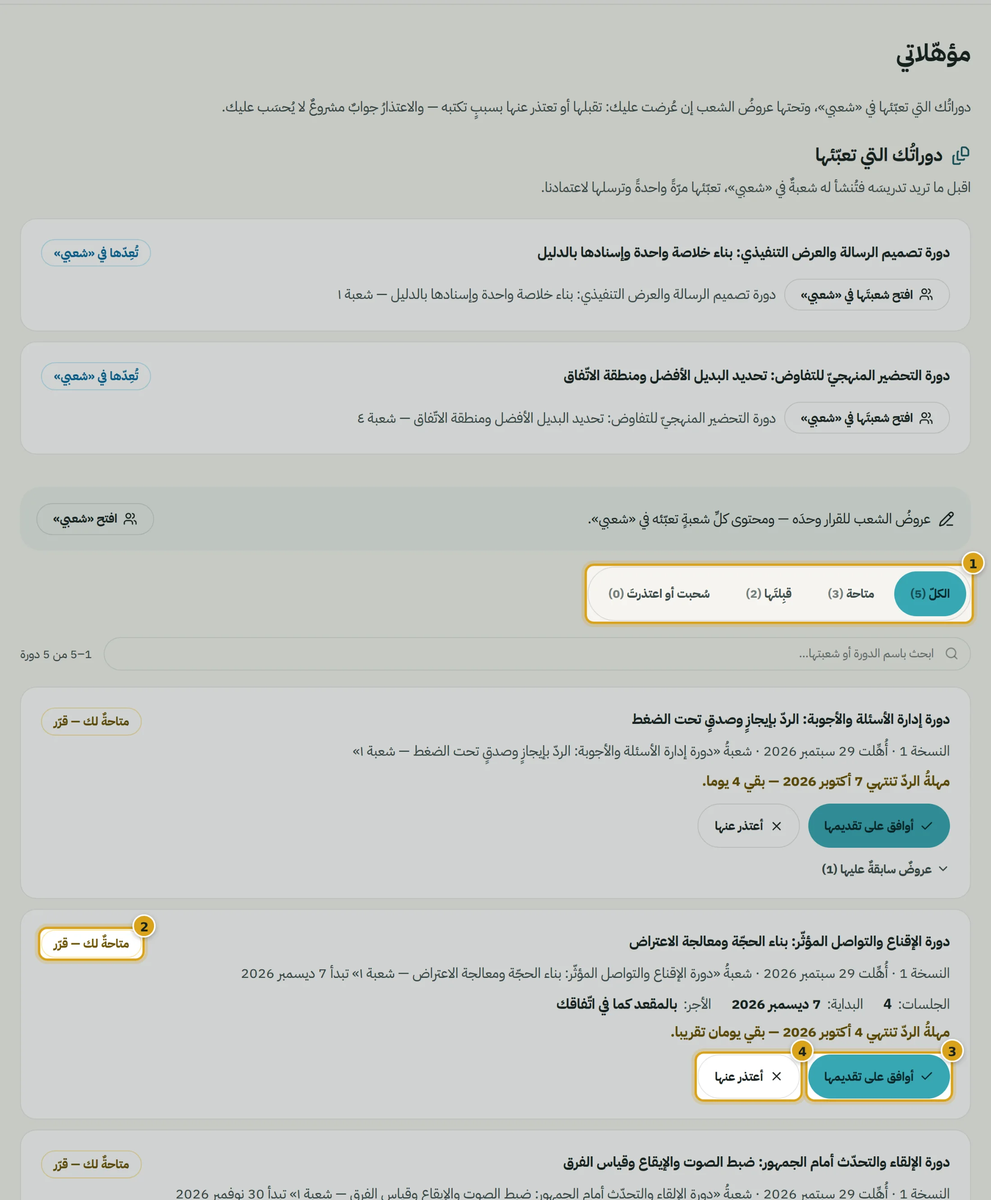
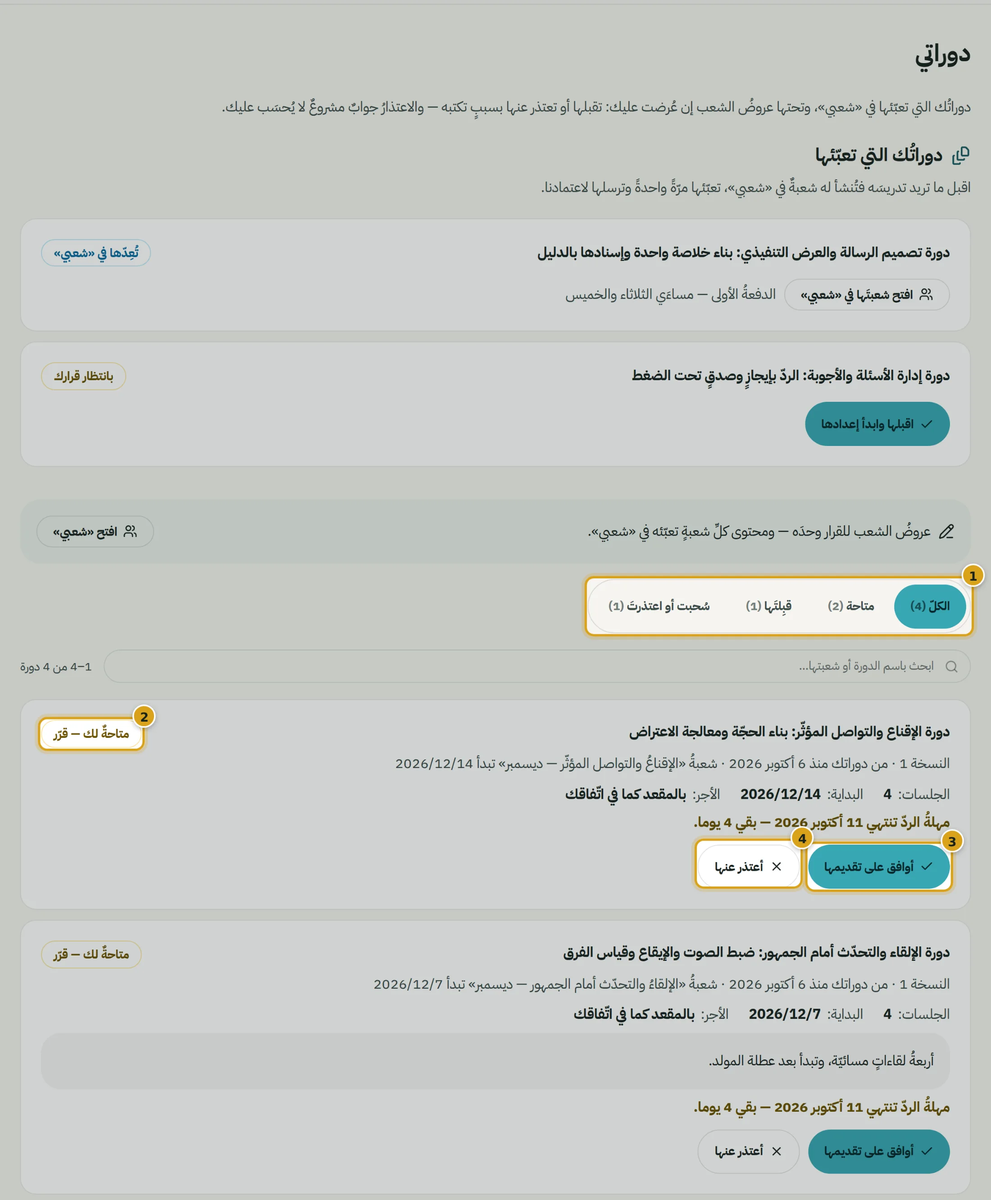
بوّابةُ المدرّب: «مؤهّلاتي» صارت «دوراتي» — في اللسان والدليل والرسائل وصورِ الدليل
اختيارُ صاحب المنصّة «B» (٦ أكتوبر ٢٠٢٦) من ثلاثة: «نؤهّلك» قد تُقرأ «ندرّبك»،
وخرجت من كلّ ما يقرؤه المدرّب في #454 — وبقي اسمُ اللسان وحدَه يحمل جذرَها.
فصار «دوراتي»، يوافق ما صارت تقوله الشاشاتُ («من دوراتك»، «أُضيفت إلى دوراتك»).

· اللسانُ في الشريط (وأيقونتُه كتابٌ مُعلَّم لا وسام)، وعنوانُ الصفحة، ووصفُها
  للقارئ الصوتيّ، وخطأُ تحميلها.
· الدليل: قسمُ «دوراتي» وكلُّ إشارةٍ إليه (ستّ عشرةَ)، والأسئلة.
· الرسائل: بريدُ اعتماد التوقيع وزرُّه «افتح «دوراتي» وابدأ»، وأربعةُ أزرارِ
  إشعارٍ «افتح دوراتك» بعد «افتح مؤهّلاتك»، وخطأُ الخادم حين ينتظر عرضٌ جوابَه،
  وجملةُ شاشة العقود التي تقول للفريق أين يرى المدرّبُ دوراتِه.
· وصورُ الدليل السبعُ التي تُظهر اللسانَ أو صفحتَه — مولَّدةٌ من البوّابة نفسِها
  (`npm run guide:shots --only …`) بخطوط المنصّة، فتقول «دوراتي» و«من دوراتك
  منذ …» كما يراها المدرّب.

والمسارُ `/trainer/qualifications` ومرساةُ الدليل `#qualifications` باقيان:
روابطُ الرسائل التي خرجت تفتحهما. وشاشاتُ الإدارة على لغة الفريق كما هي.

الحارسُ أضيق: `qualify-word.test.ts` كان يستثني اسمَ اللسان بعينه حتّى يُقرَّر،
فذهب الاستثناء — و«مؤهّلات» تُطابَق كأخواتها. وزاد عليه أزرارَ البريد التي تفتح
البوّابة (`destinations.ts`، ما وجهتُه `/trainer` وحدَه). وأربعةُ نقوضٍ سقط بكلٍّ
منها: اسمُ اللسان في الشريط، وزرُّ الإشعار، وزرُّ البريد، وحقلُ اللسان في الدليل.

Claude-Session: https://claude.ai/code/session_01DKhkPcidk5FQyQMpRQMX5o

diff --git a/src/data/trainer-guide/content.ts b/src/data/trainer-guide/content.ts
@@ -51,7 +51,7 @@ export const CHECKLIST: ChecklistItem[] = [
   { id: 'login', text: 'ادخلْ بوّابتك واقرأ الشريطَ الذي فوق كلّ صفحة: كم بقي من مهلتك', time: 'دقيقتان', anchor: 'first-login' },
   { id: 'contract', text: 'افتح «عقدي» واحفظ نسختَك الموقَّعة PDF', time: '3 دقائق', anchor: 'contract' },
   { id: 'orientation', text: 'احجز جلسةَ التهيئة إن أردتَ من يساعدك في إعداد محاورك', time: '5 دقائق', anchor: 'materials', optional: true },
-  { id: 'accept', text: 'في «مؤهّلاتي»: اقبل كلَّ دورةٍ اخترناها لك أو اعتذر عنها', time: 'دقيقةٌ لكلّ دورة', anchor: 'materials' },
+  { id: 'accept', text: 'في «دوراتي»: اقبل كلَّ دورةٍ اخترناها لك أو اعتذر عنها', time: 'دقيقةٌ لكلّ دورة', anchor: 'materials' },
   { id: 'materials', text: 'عبّئ شعبةَ إعداد كلِّ دورةٍ قبلتَها في «شعبي» بخطواتها الستّ، ثمّ أرسلها لاعتمادنا', time: 'ساعاتٌ لكلّ دورة', anchor: 'materials' },
   { id: 'proposals', text: 'اقترح في «دوراتي المقترحة» ما تدرّسه ولا تجده عندنا', time: '10 دقائق لكلّ دورة', anchor: 'proposals', optional: true },
   { id: 'profile', text: 'من «إعدادات الحساب»: ارفع صورتَك واكتب عنوانَك المهنيَّ ونبذتَك — يظهرن في «المدربون» بعد اعتمادنا', time: '10 دقائق', anchor: 'account' },
@@ -85,7 +85,7 @@ export const GUIDE_SECTIONS: GuideSection[] = [
           ['«طلبتي»', 'متعلّمو شعبك وحضورُهم وتقدّمُهم', 'بعد الإسناد'],
           ['«طابور التقييم»', 'ما سلّمه المتعلّمون وينتظر درجتَك', 'بعد الإسناد'],
           ['«جدولي»', 'لقاءاتُك في الثلاثين يوما القادمة', 'بعد الإسناد'],
-          ['«مؤهّلاتي»', 'دوراتُك وعروضُها وقرارُك فيها', 'نعم — تقبل فيه دوراتِك أو تعتذر عنها'],
+          ['«دوراتي»', 'دوراتُك وعروضُها وقرارُك فيها', 'نعم — تقبل فيه دوراتِك أو تعتذر عنها'],
           ['«دوراتي المقترحة»', 'دوراتٌ تدرّسها وليست في كتالوجنا', 'نعم'],
           ['«مساراتي»', 'مسارٌ ترتّبه من دوراتك باسمك', 'مسوّدةً فقط'],
           ['«التسويق»', 'فيديو تعريفيٌّ وصورٌ وملصقاتٌ توافق عليها', 'نعم'],
@@ -114,14 +114,14 @@ export const GUIDE_SECTIONS: GuideSection[] = [
         kind: 'steps',
         title: 'ما تفعله في الأيّام الخمسة',
         items: [
-          { text: 'افتح «مؤهّلاتي». تحت «دوراتُك قيد الإعداد» كلُّ دورةٍ اخترناها لك، ولكلٍّ زرّان: «اقبلها وابدأ إعدادها» أو «اعتذرْ عنها».', detail: 'الاعتذارُ يطلب سببا قصيرا يقرؤه من اختار لك الدورة، ولا يُحسَب عليك.' },
-          { text: 'حين تقبل دورةً تُنشأ لها شعبةُ إعدادٍ في «شعبي» باسم الدورة — مثلا «اسمُ الدورة — شعبة ١» — وأنت مدرّبُها. افتحها من زرّ «افتح شعبتَها في «شعبي»».', detail: 'وإن كنتَ كتبتَ موادَّ لها في «مؤهّلاتي» قبل ٢ أكتوبر ٢٠٢٦ وجدتَها منقولةً إليها: محاورَك ورابطَك ومصادرَك ومهمّتَك.' },
+          { text: 'افتح «دوراتي». تحت «دوراتُك قيد الإعداد» كلُّ دورةٍ اخترناها لك، ولكلٍّ زرّان: «اقبلها وابدأ إعدادها» أو «اعتذرْ عنها».', detail: 'الاعتذارُ يطلب سببا قصيرا يقرؤه من اختار لك الدورة، ولا يُحسَب عليك.' },
+          { text: 'حين تقبل دورةً تُنشأ لها شعبةُ إعدادٍ في «شعبي» باسم الدورة — مثلا «اسمُ الدورة — شعبة ١» — وأنت مدرّبُها. افتحها من زرّ «افتح شعبتَها في «شعبي»».', detail: 'وإن كنتَ كتبتَ موادَّ لها في «دوراتي» قبل ٢ أكتوبر ٢٠٢٦ وجدتَها منقولةً إليها: محاورَك ورابطَك ومصادرَك ومهمّتَك.' },
           { text: 'عبّئ الشعبةَ بخطواتها الستّ — كما في [الشعبة من الداخل](#workspace) — ثمّ أرسلها من خطوتها الأخيرة.', detail: 'وما يجعلها جيّدةً لا مقبولةً فقط — خانةً خانةً بأمثلة — في [معيار الموادّ](#standard).' },
-          { text: 'إن أردت من يساعدك في ترتيب محاورك فاحجز جلسةَ التهيئة من داخل شعبتك نفسِها، أو من «مؤهّلاتي»، أو من [آخر هذا الدليل](#help).', detail: 'حضورُها حقٌّ لك لا التزامٌ عليك، ولا يوقف مهلتَك ولا يمدّها.' },
+          { text: 'إن أردت من يساعدك في ترتيب محاورك فاحجز جلسةَ التهيئة من داخل شعبتك نفسِها، أو من «دوراتي»، أو من [آخر هذا الدليل](#help).', detail: 'حضورُها حقٌّ لك لا التزامٌ عليك، ولا يوقف مهلتَك ولا يمدّها.' },
           { text: 'حين ترسل آخرَ شعبةٍ تتجمّد مهلتُك بنفسها — لا زرَّ تضغطه — ولا يُحسب عليك وقتُ مراجعتنا.' },
         ],
       },
-      { kind: 'figure', shot: 'prep-panel', alt: 'دوراتُك قيد الإعداد في مؤهّلاتي: دورةٌ تنتظر قرارك وأخرى قبلتَها', caption: '1 كم قرّرتَ من دوراتك · 2 «اقبلها وابدأ إعدادها» · 3 «اعتذرْ عنها» · 4 دورةٌ قبلتَها تُفتح شعبتُها من هنا' },
+      { kind: 'figure', shot: 'prep-panel', alt: 'دوراتُك قيد الإعداد في «دوراتي»: دورةٌ تنتظر قرارك وأخرى قبلتَها', caption: '1 كم قرّرتَ من دوراتك · 2 «اقبلها وابدأ إعدادها» · 3 «اعتذرْ عنها» · 4 دورةٌ قبلتَها تُفتح شعبتُها من هنا' },
       { kind: 'figure', shot: 'prep-notice', alt: 'شعبةُ إعدادٍ في «شعبي» وفوقها ما هي', caption: 'في شعبة الإعداد يقال لك ما هي (1): لا متعلّمين فيها ولا تُنشَر، وتصير شعبتَك الأولى حين تُعتمَد.' },
       { kind: 'callout', tone: 'important', title: 'قبل أن تضغط', text: '«امنحني يومين» يُنفق تمديدا من تمديدَيك بنقرةٍ واحدةٍ بلا سؤال، ويُضاف اليومان إلى نهاية مهلتك لا إلى اليوم. وما أرسلتَه من شعبك يُقرأ ولا يُعدَّل حتّى يصلك جوابُنا — فراجِعه قبل الإرسال.' },
       {
@@ -150,7 +150,7 @@ export const GUIDE_SECTIONS: GuideSection[] = [
       {
         kind: 'list',
         items: [
-          '«اقرأه وأجِبْ» — عرضُ دورةٍ ينتظر قبولَك أو اعتذارك في [«مؤهّلاتي»](#qualifications).',
+          '«اقرأه وأجِبْ» — عرضُ دورةٍ ينتظر قبولَك أو اعتذارك في [«دوراتي»](#qualifications).',
           '«قيّم الآن» — تسليماتٌ في [«طابور التقييم»](#grading).',
           '«أكمِل التجهيز» — شعبةٌ لم يكتمل تجهيزُها في [مساحة الشعبة](#workspace).',
           '«سجّل الحضور» — لقاءٌ انتهى ولم يُسجَّل حضورُه.',
@@ -159,19 +159,19 @@ export const GUIDE_SECTIONS: GuideSection[] = [
         ],
       },
       { kind: 'p', text: 'وتحتها «من يحتاج تدخلك»: متعلّمون تأخّروا أو غابوا. وفي آخرها «اختر موعدا» لتحجز اجتماعا مع الإدارة إن أردت أن تسأل عن شيء.' },
-      { kind: 'callout', tone: 'tip', title: 'أوّلُ عرضٍ يصلك', text: 'ما دامت لا شعبةَ لك بعد فأوّلُ عرضِ دورةٍ لا يظهر هنا: تجده في «مؤهّلاتي» وفي الإشعارات.' },
+      { kind: 'callout', tone: 'tip', title: 'أوّلُ عرضٍ يصلك', text: 'ما دامت لا شعبةَ لك بعد فأوّلُ عرضِ دورةٍ لا يظهر هنا: تجده في «دوراتي» وفي الإشعارات.' },
     ],
   },
 
-  /* ═══ مؤهّلاتي ═══ */
+  /* ═══ دوراتي — وكان اسمُها «مؤهّلاتي» حتّى ٦ أكتوبر ٢٠٢٦ ═══ */
   {
     id: 'qualifications',
-    title: 'مؤهّلاتي: عروضُ الدورات وقرارُك فيها',
-    tab: 'مؤهّلاتي',
+    title: 'دوراتي: عروضُ الدورات وقرارُك فيها',
+    tab: 'دوراتي',
     path: '/trainer/qualifications',
     why: 'في أعلاها «دوراتُك قيد الإعداد» ما دمتَ في طور الإعداد: تقبل فيه دوراتِك أو تعتذر عنها. وبعد تفعيلك يصير «دوراتُك التي تعبّئها»: كلُّ دورةٍ اعتُمدت لك ولا شعبةَ لك فيها تقبلها بنفسك فتُنشأ شعبتُها في «شعبي». وتحتها عروضُ الشعب التي نعرضها عليك وحالُ كلٍّ: ما ينتظر قرارَك، وما قبِلتَه، وما سُحب أو اعتذرتَ عنه.',
     blocks: [
-      { kind: 'figure', shot: 'qualifications', alt: 'صفحةُ مؤهّلاتي بتصفيتها وبطاقةِ عرضٍ مفتوح', caption: '1 التصفية بالحال · 2 «متاحةٌ لك — قرّر» · 3 «أوافق على تقديمها» · 4 «أعتذر عنها»' },
+      { kind: 'figure', shot: 'qualifications', alt: 'صفحةُ «دوراتي» بتصفيتها وبطاقةِ عرضٍ مفتوح', caption: '1 التصفية بالحال · 2 «متاحةٌ لك — قرّر» · 3 «أوافق على تقديمها» · 4 «أعتذر عنها»' },
       {
         kind: 'table',
         head: ['الحال على البطاقة', 'معناها'],
@@ -191,7 +191,7 @@ export const GUIDE_SECTIONS: GuideSection[] = [
         ],
       },
       { kind: 'figure', shot: 'qual-accepted', alt: 'بطاقةُ دورةٍ قُبل عرضُها وفيها أجلُ الإعداد', caption: 'بعد القبول: 1 الحال · 2 أجلُ إعدادك · 3 «أقِرّ بجاهزيّتي»' },
-      { kind: 'callout', tone: 'important', title: 'لا تُعدَّل الدورةُ هنا بعد اعتمادها', text: '«مؤهّلاتي» للقراءة والقرار: تقبل العرضَ أو تعتذر عنه. ومحتوى الدورة بعد اعتماد موادّها — محاورُها ومواعيدُها وكرّاستُها ولقاءاتُها ومهامُّها ومصادرُها — تعبّئه في «شعبي» لكلّ شعبةٍ أُسندت إليك، في [مساحة الشعبة](#workspace)، ثمّ تُرسله لاعتمادنا. وما دامت لا شعبةَ لك فيها فاقبلها في أعلى «مؤهّلاتي» فتُنشأ شعبتُها.' },
+      { kind: 'callout', tone: 'important', title: 'لا تُعدَّل الدورةُ هنا بعد اعتمادها', text: '«دوراتي» للقراءة والقرار: تقبل العرضَ أو تعتذر عنه. ومحتوى الدورة بعد اعتماد موادّها — محاورُها ومواعيدُها وكرّاستُها ولقاءاتُها ومهامُّها ومصادرُها — تعبّئه في «شعبي» لكلّ شعبةٍ أُسندت إليك، في [مساحة الشعبة](#workspace)، ثمّ تُرسله لاعتمادنا. وما دامت لا شعبةَ لك فيها فاقبلها في أعلى «دوراتي» فتُنشأ شعبتُها.' },
       { kind: 'callout', tone: 'tip', title: 'دمجُ دورتين متقاربتين', text: 'إن عُرضت عليك دورتان محاورُهما متقاربة وتراهما دورةً واحدةً أقوى: اقبل الأقربَ إليك، واعتذر عن الأخرى واكتب في سبب الاعتذار أنّك تقترح دمجَها مع دورةٍ تسمّيها. يصل سببُك الإدارةَ مكتوبا، وهي تقرّر الدمج — والاعتذارُ وحدَه لا يدمج شيئا.' },
       { kind: 'figure', shot: 'decline-merge', alt: 'نموذجُ الاعتذار عن عرضٍ وفيه سببٌ يقترح الدمج', caption: '1 سببُ الاعتذار — هنا اقتراحُ دمج · 2 «أرسِل اعتذاري»' },
     ],
@@ -223,7 +223,7 @@ export const GUIDE_SECTIONS: GuideSection[] = [
         rows: [
           ['«عند الإدارة»', 'لك أن تعدّله أو تحذفه'],
           ['«الإدارةُ تسألك»', '«أجِبْ عن السؤال» ثمّ «أرسِل الجواب» — ولك أن تعدّل العنوانَ والنبذةَ مع جوابك'],
-          ['«نسختُك من دورةٍ قائمة»', 'وجدناها عندنا فدمجناها — وتظهر في «مؤهّلاتي» حين نختارها لك'],
+          ['«نسختُك من دورةٍ قائمة»', 'وجدناها عندنا فدمجناها — وتظهر في «دوراتي» حين نختارها لك'],
           ['«صارت دورةً في الكتالوج»', 'أُضيفت دورةً جديدة'],
           ['«لم تُقبل»', 'السببُ مكتوبٌ تحتها'],
         ],
@@ -251,7 +251,7 @@ export const GUIDE_SECTIONS: GuideSection[] = [
           ['«معتمَدة» و«منشورة»', 'جاهزة، ومفتوحةٌ للتسجيل حين تُنشر'],
         ],
       },
-      { kind: 'p', text: 'الشعبةُ تصلك بطريقين: بقبولك عرضا في «مؤهّلاتي»، أو بإسنادٍ من الإدارة — ويصلك في الحالين إشعارٌ «أُسنِدت إليك شعبة».' },
+      { kind: 'p', text: 'الشعبةُ تصلك بطريقين: بقبولك عرضا في «دوراتي»، أو بإسنادٍ من الإدارة — ويصلك في الحالين إشعارٌ «أُسنِدت إليك شعبة».' },
     ],
   },
 
@@ -727,15 +727,15 @@ export const GUIDE_PARTS: GuidePart[] = [
   { title: 'حضورُك ومستحقّاتُك', ids: ['paths', 'marketing', 'earnings', 'contract', 'ratings', 'referral', 'account', 'notifications'] },
 ]
 
-/** اسمُ القسم القصير في الفهرس: ما قبل النقطتين — «مؤهّلاتي» لا «مؤهّلاتي: عروضُ الدورات…» */
+/** اسمُ القسم القصير في الفهرس: ما قبل النقطتين — «دوراتي» لا «دوراتي: عروضُ الدورات…» */
 export const shortTitle = (title: string) => title.split(':')[0].trim()
 
 export const FAQ: FaqItem[] = [
   { q: 'اعتُمد توقيعي — فهل صرتُ مدرّبا نشطا؟', a: 'ليس بعد. اعتمادُ التوقيع يفتح بوّابتك ويبدأ مهلتَك، ولا نوقّع به العقد. وتُفعَّل تلقائيّا حين نعتمد شعبَ دوراتك التي قبلتَها كلَّها، وتصلك بذلك رسالةٌ مستقلّة.' },
   { q: 'متى توقّع الأكاديميّةُ عقدي؟', a: 'حين نعتمد دوراتِك. قبلها اعتمدنا توقيعَك وفتحنا بوّابتَك، والاتفاقيّةُ مشروطةٌ لم نوقّعها — فإن لم تُعتمَد موادُّك فلا إخلالَ من أحد. وحين نوقّعها تصير عقدا نهائيّا غيرَ مشروط، وتصلك نسختُها بتوقيع الطرفين.' },
-  { q: 'أين أكتب موادَّ دوراتي؟', a: 'في «شعبي»، مرّةً واحدة. اقبل الدورةَ في «مؤهّلاتي» تحت «دوراتُك قيد الإعداد»، فتُنشأ لها شعبةُ إعدادٍ في «شعبي» تعبّئ فيها كلَّ شيء ثمّ ترسلها — [خمسة أيّامك الأولى](#materials).' },
+  { q: 'أين أكتب موادَّ دوراتي؟', a: 'في «شعبي»، مرّةً واحدة. اقبل الدورةَ في «دوراتي» تحت «دوراتُك قيد الإعداد»، فتُنشأ لها شعبةُ إعدادٍ في «شعبي» تعبّئ فيها كلَّ شيء ثمّ ترسلها — [خمسة أيّامك الأولى](#materials).' },
   { q: 'ما الذي يجعل موادّي جيّدةً لا مقبولةً فقط؟', a: `المنصّةُ تفحص الحدَّ الأدنى وحدَه — محورٌ يتمّ بـ${MIN_MODULE_BODY} حرفا. وما يجعلها جيّدةً، خانةً خانةً بأمثلة، في [معيار الموادّ](#standard): توصياتٌ لا شروط، والقرارُ فيها قرارُك.` },
-  { q: 'لا أستطيع تعديلَ دورتي من «مؤهّلاتي» — لماذا؟', a: 'لأنّ «مؤهّلاتي» لا تُعدَّل فيها الدورةُ بعد اعتماد موادّها. تعديلُها في «شعبي»: افتح الشعبة، وعبّئ خطواتها الستّ، ثمّ أرسلها لاعتمادنا — [مساحة الشعبة](#workspace). وإن لم تكن لك شعبةٌ فيها فاقبلها في «مؤهّلاتي» — تحت «دوراتُك قيد الإعداد» أو «دوراتُك التي تعبّئها» — فتُنشأ شعبتُها.' },
+  { q: 'لا أستطيع تعديلَ دورتي من «دوراتي» — لماذا؟', a: 'لأنّ «دوراتي» لا تُعدَّل فيها الدورةُ بعد اعتماد موادّها. تعديلُها في «شعبي»: افتح الشعبة، وعبّئ خطواتها الستّ، ثمّ أرسلها لاعتمادنا — [مساحة الشعبة](#workspace). وإن لم تكن لك شعبةٌ فيها فاقبلها في «دوراتي» — تحت «دوراتُك قيد الإعداد» أو «دوراتُك التي تعبّئها» — فتُنشأ شعبتُها.' },
   { q: 'ضغطتُ «امنحني يومين» خطأً — هل يُستردّ؟', a: 'لا. وكلُّ ضغطةٍ تمديدٌ من اثنين. فإن بقي لك تمديدٌ فلا تضغطه إلّا حين تحتاجه.' },
   { q: 'انقضت مهلتي — هل انتهى الأمر؟', a: 'لا. ما زال إرسالُ شعبك يعمل إن أتممتَها، ولك أن تطلب التأجيلَ إلى الموسم القادم بالردّ على رسالة انقضاء المهلة.' },
   { q: 'هل اعتذاري عن عرضٍ يُحسب عليّ؟', a: 'لا. الدورةُ تبقى من دوراتك، والعرضُ لشعبةٍ منها دعوةٌ لا توجيه، والاعتذارُ جوابٌ مشروع.' },

diff --git a/src/tests/trainer/qualify-word.test.ts b/src/tests/trainer/qualify-word.test.ts
@@ -12,9 +12,10 @@
  *   جديدةٌ للعقد — فبقي كما اتّفقنا. ورسالةُ البند الثاني تقوله بلغة ما يقع.
  * · **شاشاتُ الإدارة**: «أهِّله» و«طلبُ التأهيل» لغةُ الفريق في عمله، لا ما يقرؤه
  *   المدرّب.
- * · **اسمُ اللسان «مؤهّلاتي»** (ومعه «مؤهّلاتك» في الأزرار): اسمُ شاشةٍ لا فعلٌ
- *   يُقال للمدرّب، وتغييرُه يمسّ الدليلَ وصورَه ورسائلَ تشير إليه — فعُرض خيارا
- *   ولم يُقرَّر بعد. فيُستثنى بعينه، ولا يُستثنى غيرُه.
+ * · **واسمُ اللسان** كان «مؤهّلاتي» (ومعه «افتح مؤهّلاتك» في الأزرار) — فعُرض خيارا
+ *   بثلاثة، فاختار صاحبُ المنصّة «دوراتي» («B»، ٦ أكتوبر ٢٠٢٦). فلا استثناءَ له
+ *   بعد: «مؤهّلات» تُطابَق كأخواتها. والمسارُ `/trainer/qualifications` باقٍ —
+ *   ليس نصّا يُقرأ، وروابطُ الرسائل التي خرجت تفتحه.
  *
  * ── ويُقرأ على البنية لا على ورود حرفٍ في ملفّ ──
  *
@@ -34,14 +35,12 @@ import { planApprovedTrainerMsg } from '../../application/trainer/plan-decision'
 
 const root = join(dirname(fileURLToPath(import.meta.url)), '../../..')
 
-const bare = (t: string) => t.replace(/[ً-ْٰـ]/g, '')
-/** الفعلُ ومصدرُه واسمُ مفعوله — بعد نزع الحركات: «نؤهّلك» «تُؤهَّل» «أُهِّلتَ»
-    «تأهيلُك» «مؤهَّلا». ولا «أهلا»: «أهل» وحدَها لا تُطابَق */
-const QUALIFY = /[نتيأ]ؤهل|تأهيل|مؤهل|(?<![ء-ي])أهل(?:ت|نا)/g
-/** اسمُ اللسان — مستثنًى بعينه حتّى يُقرَّر فيه */
-const TAB = /مؤهلات[يك](?![ء-ي])/g
+const bare = (t: string) => t.replace(/[\u064B-\u0652\u0670\u0640]/g, '')
+/** الفعلُ ومصدرُه واسمُ مفعوله، واسمُ اللسان القديم — بعد نزع الحركات: «نؤهّلك»
+    «تُؤهَّل» «أُهِّلتَ» «تأهيلُك» «مؤهَّلا» «مؤهّلاتي». ولا «أهلا»: «أهل» وحدَها لا تُطابَق */
+const QUALIFY = /[نتيأ]ؤهل|تأهيل|مؤهل|(?<![\u0621-\u064A])أهل(?:ت|نا)/g
 
-const hitsOf = (text: string) => [...bare(text).replace(TAB, '').matchAll(QUALIFY)].map((m) => m[0])
+const hitsOf = (text: string) => [...bare(text).matchAll(QUALIFY)].map((m) => m[0])
 
 const parse = (file: string, src: string) => ts.createSourceFile(file, src, ts.ScriptTarget.Latest, true,
   file.endsWith('x') ? ts.ScriptKind.TSX : ts.ScriptKind.TS)
@@ -98,21 +97,22 @@ const TRAINER_FILES = [
 ]
 
 describe('ولا «نؤهّلك» في نصٍّ يقرؤه المدرّب', () => {
-  it('الماسحُ يقرأ النصوصَ ويتجاوز التعليقات، ويستثني اسمَ اللسان وحدَه — وإلّا فالحارسُ يقيس الفراغ', () => {
+  it('الماسحُ يقرأ النصوصَ ويتجاوز التعليقات، ويرى اسمَ اللسان القديم — وإلّا فالحارسُ يقيس الفراغ', () => {
     const sample = [
       '/* حين نؤهّلك في تعليقٍ يروي القرار */',
       "const a = 'وتظهر حين نؤهّلك لها'",
       'const b = `النسخة ${v} · أُهِّلت ${d}`',
       'const c = <p>لستَ مؤهَّلا لها</p>',
-      "const d = 'افتح «مؤهّلاتي» — أهلا بك'",
+      "const d = 'افتح «دوراتي» — أهلا بك'",
+      "const e = 'افتح مؤهّلاتك'",
       "notifyTrainerUser(id, { title: 'لم يُقبل تأهيلُك لدورة' })",
       "notifyStaff(id, { title: 'طلبُ تأهيل' })",
     ].join('\n')
     const sf = parse('sample.tsx', sample)
     const all = textsUnder(sf, sf).filter((t) => hitsOf(t.text).length > 0).map((t) => t.line)
-    expect(all, 'الماسحُ لا يرى النصَّ، أو يرى التعليق، أو لا يستثني اللسان').toEqual([2, 3, 4, 6, 7])
+    expect(all, 'الماسحُ لا يرى النصَّ، أو يرى التعليق، أو لا يرى اسمَ اللسان القديم').toEqual([2, 3, 4, 6, 7, 8])
     expect(trainerNotifyTexts(sf).filter((t) => hitsOf(t.text).length > 0).map((t) => t.line),
-      'لا يُفرَز جرسُ المدرّب من جرس الفريق').toEqual([6])
+      'لا يُفرَز جرسُ المدرّب من جرس الفريق').toEqual([7])
   })
 
   it('① لا في البوّابة ولا الدليل ولا رسائل القرار', () => {
@@ -141,6 +141,29 @@ describe('ولا «نؤهّلك» في نصٍّ يقرؤه المدرّب', () =
     }
     expect(calls, 'لم يُقرأ جرسٌ واحدٌ للمدرّب — فالحارسُ يقيس الفراغ').toBeGreaterThan(10)
     expect(hits, `«نؤهّلك» وأخواتُها في جرس المدرّب:\n${hits.join('\n')}`).toEqual([])
+  })
+
+  /* وأزرارُ البريد التي تفتح البوّابة — «افتح مؤهّلاتك» كانت أربعا. والجدولُ
+     يجمع وجهاتِ الجماهير الثلاثة، فيُقرأ منه ما وجهتُه `/trainer` وحدَه: زرُّ
+     «افتح طلبَ التأهيل» يفتح شاشةَ الإدارة، ولغتُها لغةُ الفريق. */
+  it('② ولا في زرّ بريدٍ يفتح بوّابةَ المدرّب', () => {
+    const file = join(root, 'src/application/notifications/destinations.ts')
+    const sf = parse(file, readFileSync(file, 'utf8'))
+    const ctas: { text: string; line: number }[] = []
+    const visit = (n: ts.Node) => {
+      if (ts.isObjectLiteralExpression(n)) {
+        const prop = (name: string) => n.properties.find(
+          (p): p is ts.PropertyAssignment => ts.isPropertyAssignment(p) && p.name.getText(sf) === name)
+        const path = prop('path')?.initializer
+        const cta = prop('ctaAr')
+        if (path && ts.isStringLiteralLike(path) && path.text.startsWith('/trainer') && cta) ctas.push(...textsUnder(sf, cta))
+      }
+      ts.forEachChild(n, visit)
+    }
+    visit(sf)
+    expect(ctas.length, 'لم يُقرأ زرٌّ واحدٌ يفتح البوّابة — فالحارسُ يقيس الفراغ').toBeGreaterThan(10)
+    const hits = ctas.flatMap((t) => hitsOf(t.text).map((h) => `destinations.ts:${t.line} «${h}»`))
+    expect(hits, `«نؤهّلك» وأخواتُها في زرّ بريد المدرّب:\n${hits.join('\n')}`).toEqual([])
   })
 
   it('③ وخبرُ اعتماد الشعبة يقول «أُضيفت إلى دوراتك» لا «صرتَ مؤهَّلا»', () => {

diff --git a/src/pages/trainer/Qualifications.tsx b/src/pages/trainer/Qualifications.tsx
@@ -1,4 +1,11 @@
-/* «مؤهّلاتي» — كلُّ دورةٍ لي، وحالُها، وقراري فيها. صفحةٌ واحدةٌ لا ثلاث.
+/* «دوراتي» — كلُّ دورةٍ لي، وحالُها، وقراري فيها. صفحةٌ واحدةٌ لا ثلاث.
+
+   ═══ وكان اسمُها «مؤهّلاتي» حتّى ٦ أكتوبر ٢٠٢٦ ═══
+
+   «نؤهّلك» قد تُقرأ «ندرّبك» (`qualify-word.test.ts`)، فخرجت من كلّ ما يقرؤه
+   المدرّب — ثمّ عُرض اسمُ اللسان خيارا بثلاثة، فاختار صاحبُ المنصّة «دوراتي»
+   («B»). والمسارُ `/trainer/qualifications` باقٍ: روابطُ الرسائل التي خرجت
+   تفتحه، ومرساةُ الدليل `#qualifications` كذلك.
 
    ═══ ولمَ صارت «عروضي» فيها (٢٩ سبتمبر ٢٠٢٦) ═══
 
@@ -228,11 +235,11 @@ export default function TrainerQualifications() {
 
   if (down) {
     return (
-      <TrainerLayout title="مؤهّلاتي">
+      <TrainerLayout title="دوراتي">
         <EmptyState
           icon={ServerOff}
           titleAr="تعذّر الوصول إلى الخادم"
-          reasonAr="لم يُجب الخادمُ على طلب مؤهّلاتك. تحقّق من اتصالك ثمّ أعد التحميل."
+          reasonAr="لم يُجب الخادمُ على طلب دوراتك. تحقّق من اتصالك ثمّ أعد التحميل."
           actions={[{ labelAr: "أعد المحاولة", onClick: () => void load() }]}
         />
       </TrainerLayout>
@@ -241,7 +248,7 @@ export default function TrainerQualifications() {
 
   if (!quals) {
     return (
-      <TrainerLayout title="مؤهّلاتي">
+      <TrainerLayout title="دوراتي">
         <div className="grid place-items-center py-16">
           <Loader2 className="h-8 w-8 animate-spin text-muted-foreground/50" aria-label="جارٍ التحميل" />
         </div>
@@ -250,7 +257,7 @@ export default function TrainerQualifications() {
   }
 
   return (
-    <TrainerLayout title="مؤهّلاتي">
+    <TrainerLayout title="دوراتي">
       <p className="mb-5 max-w-3xl text-sm leading-7 text-muted-foreground">
         دوراتُك التي تعبّئها في «شعبي»، وتحتها عروضُ الشعب إن عُرضت عليك: تقبلها أو تعتذر عنها بسببٍ
         تكتبه — والاعتذارُ جوابٌ مشروعٌ لا يُحسَب عليك.
@@ -289,7 +296,7 @@ export default function TrainerQualifications() {
             <Button as={Link} to="/trainer/board" size="sm" icon={Users}>افتح «شعبي»</Button>
           </Inset>
           <TabBar
-            ariaLabel="حالُ مؤهّلاتي"
+            ariaLabel="حالُ دوراتي"
             className="mb-4"
             value={filter}
             onChange={(f) => { setFilter(f); setPage(1); }}

diff --git a/src/application/notifications/destinations.ts b/src/application/notifications/destinations.ts
@@ -89,7 +89,7 @@ const LEARNER: Table = {
 
 const TRAINER: Table = {
   'trainer_payout': { path: '/trainer/earnings', ctaAr: 'افتح كشفَ مستحقّاتك' },
-  'trainer.qualified': { path: '/trainer/qualifications', ctaAr: 'افتح مؤهّلاتك' },
+  'trainer.qualified': { path: '/trainer/qualifications', ctaAr: 'افتح دوراتك' },
   /* وتفعيلُه — بوّابتُه كاملةً، ومنها «عقدي» و«مستحقّاتي» (٣ أكتوبر ٢٠٢٦) */
   'trainer.activated': { path: '/trainer', ctaAr: 'افتح بوّابتَك' },
   /* ي-٤: ملفُّه العامُّ يُحرَّر من صفحة حسابه — وهي ما يحمل الخبرَ نفسَه */
@@ -100,7 +100,7 @@ const TRAINER: Table = {
   /* وسؤالُ الإدارة عن اقتراحه: الاقتراحُ واقفٌ على جوابه، وموضعُ الجواب هو
      موضعُ الخبر نفسُه — فالزرُّ يضعه حيث يجيب لا حيث يقرأ فيبحث. */
   'trainer.course_proposal.question': { path: '/trainer/course-proposals', ctaAr: 'أجِبْ عن السؤال' },
-  'trainer.qualify.rejected': { path: '/trainer/qualifications', ctaAr: 'افتح مؤهّلاتك' },
+  'trainer.qualify.rejected': { path: '/trainer/qualifications', ctaAr: 'افتح دوراتك' },
   'trainer.assigned': { path: '/trainer/board', ctaAr: 'افتح شعبتك الجديدة' },
   'cohort.plan.submitted': { path: '/trainer/board', ctaAr: 'افتح خطّةَ شعبتك' },
   'cohort.plan.decision': { path: '/trainer/board', ctaAr: 'اقرأ قرارَ الخطّة' },
@@ -121,8 +121,8 @@ const TRAINER: Table = {
   'submission.queued': { path: '/trainer/grading', ctaAr: 'افتح طابورَ التصحيح' },
   /* عروضُ الإسناد — والوجهةُ حيث يُجاب لا حيث يُقرأ الخبر ثانيةً */
   'trainer.offer.received': { path: '/trainer/qualifications', ctaAr: 'اقرأ العرضَ وأجِبْ' },
-  'trainer.offer.withdrawn': { path: '/trainer/qualifications', ctaAr: 'افتح مؤهّلاتك' },
-  'trainer.offer.lapsed': { path: '/trainer/qualifications', ctaAr: 'افتح مؤهّلاتك' },
+  'trainer.offer.withdrawn': { path: '/trainer/qualifications', ctaAr: 'افتح دوراتك' },
+  'trainer.offer.lapsed': { path: '/trainer/qualifications', ctaAr: 'افتح دوراتك' },
   'trainer.prep.reminder': { path: '/trainer/qualifications', ctaAr: 'أقِرّ بجاهزيّتك' },
   /* والملصقُ يُوافَق عليه حيث يُرى — قسمُ التسويق */
   'trainer.poster.submitted': { path: '/trainer/marketing', ctaAr: 'راجِع الملصقَ ووافِق عليه' },

diff --git a/server/services/trainer-decision-mail.ts b/server/services/trainer-decision-mail.ts
@@ -1536,7 +1536,7 @@ export function contractApprovedMail(input: ContractApprovedMailInput): Decision
           ? ([
               {
                 kind: 'p' as const,
-                text: 'وبذلك فُتحت لك بوّابتُك على المنصّة، وبدأت مهلتُك لإعداد دوراتك: تقبل كلَّ دورةٍ أو تعتذر عنها في «مؤهّلاتي»، وتُعِدّ ما قبِلتَه في شعبة إعدادٍ في «شعبي» — مرّةً واحدة.',
+                text: 'وبذلك فُتحت لك بوّابتُك على المنصّة، وبدأت مهلتُك لإعداد دوراتك: تقبل كلَّ دورةٍ أو تعتذر عنها في «دوراتي»، وتُعِدّ ما قبِلتَه في شعبة إعدادٍ في «شعبي» — مرّةً واحدة.',
               },
               { kind: 'h' as const, text: 'وماذا بعد' },
               {
@@ -1545,7 +1545,7 @@ export function contractApprovedMail(input: ContractApprovedMailInput): Decision
                   { textAr: 'قرأتَ الاتفاقيّةَ ووقّعتَها.', state: 'done' as const },
                   { textAr: 'راجعنا توقيعَك وطابقنا اسمَك القانونيَّ واعتمدناه.', state: 'done' as const },
                   /* ومنذ ٢ أكتوبر ٢٠٢٦ تُعَدّ الدوراتُ في «شعبي» (`trainer-prep.service.ts`) */
-                  { textAr: 'افتح «مؤهّلاتي» واقبل دوراتك أو اعتذر عنها، ثمّ عبّئ شعبةَ إعداد كلِّ دورةٍ في «شعبي» وأرسلها — والدورُ عليك الآن.', state: 'now' as const },
+                  { textAr: 'افتح «دوراتي» واقبل دوراتك أو اعتذر عنها، ثمّ عبّئ شعبةَ إعداد كلِّ دورةٍ في «شعبي» وأرسلها — والدورُ عليك الآن.', state: 'now' as const },
                   { textAr: 'نراجع كلَّ شعبة: ما اعتمدناه تدرّسه، وما أعدناه يصلك بملاحظاتنا لتعدّله.' },
                   {
                     textAr: sealedOffer
@@ -1557,7 +1557,7 @@ export function contractApprovedMail(input: ContractApprovedMailInput): Decision
               guideCallout,
               {
                 kind: 'cta' as const,
-                label: 'افتح «مؤهّلاتي» وابدأ',
+                label: 'افتح «دوراتي» وابدأ',
                 href: input.portalUrl,
               },
               /* ═══ ودعوةُ جلسة التهيئة — وفاءٌ بالبند 2-8 ═══

diff --git a/src/pages/trainer/TrainerLayout.tsx b/src/pages/trainer/TrainerLayout.tsx
@@ -1,5 +1,5 @@
 import { Link } from "react-router";
-import { Award, BookOpen, BookPlus, CalendarDays, ClipboardCheck, FileSignature, GraduationCap, LayoutDashboard, Link2, Megaphone, Route, Star, Users, Wallet } from "lucide-react";
+import { BookCheck, BookOpen, BookPlus, CalendarDays, ClipboardCheck, FileSignature, GraduationCap, LayoutDashboard, Link2, Megaphone, Route, Star, Users, Wallet } from "lucide-react";
 import { PortalTabs, type PortalTab } from "@/components/ui/PortalTabs";
 import NotificationBell from "@/components/NotificationBell";
 import SearchChip from "@/components/SearchChip";
@@ -137,12 +137,13 @@ export default function TrainerLayout({ children, title }: { children: React.Rea
     { to: "/trainer/learners", label: "طلبتي", icon: GraduationCap },
     { to: "/trainer/grading", label: "طابور التقييم", icon: ClipboardCheck, count: pending },
     { to: "/trainer/schedule", label: "جدولي", icon: CalendarDays },
-    /* «مؤهّلاتي» وحدَها: ذهبت الإتاحةُ من صفحتها بقرار صاحب المنصّة
+    /* «دوراتي» — وكانت «مؤهّلاتي» حتّى ٦ أكتوبر ٢٠٢٦ (اختار صاحبُ المنصّة «B»:
+       «نؤهّلك» قد تُقرأ «ندرّبك»؛ والمسارُ باقٍ لروابط الرسائل). وكانت وحدَها: ذهبت الإتاحةُ من صفحتها بقرار صاحب المنصّة
        (٢٧ سبتمبر ٢٠٢٦)، فاسمٌ يَعِد بـ«إتاحتي» يقود إلى ما لا وجودَ له.
        و«عروضي» دخلتها (٢٩ سبتمبر ٢٠٢٦): العرضُ حالُ مؤهَّلٍ يُقرَّر عنده،
        لا بابٌ ثانٍ يُقابَل بالأوّل بالعين. */
-    { to: "/trainer/qualifications", label: "مؤهّلاتي", icon: Award },
-    /* ح-٢: بعد «مؤهّلاتي» — السؤالان جارانِ: ما أُهِّلتُ له، وما أقترحه ولم
+    { to: "/trainer/qualifications", label: "دوراتي", icon: BookCheck },
+    /* ح-٢: بعد «دوراتي» — السؤالان جارانِ: ما أُهِّلتُ له، وما أقترحه ولم
        يدخل الكتالوجَ بعد. وقرارُ الإدارة يصل هنا، فلا يُدفن في صفحةٍ طويلة. */
     { to: "/trainer/course-proposals", label: "دوراتي المقترحة", icon: BookPlus },
     /* وكانت بعدها «تعديلاتي على دوراتي» — وذهبت بقرار صاحب المنصّة

diff --git a/src/pages/admin/TrainerContracts.tsx b/src/pages/admin/TrainerContracts.tsx
@@ -1967,7 +1967,7 @@ c.gatesActivation
           </div>
 
           <p className="mb-3 text-read leading-7 opacity-70">
-            مدرّبون مؤهَّلون لدوراتٍ ليس لهم فيها شعبةٌ يعبّئون محتواها — ويرونها في «مؤهّلاتي» ويقبلونها
+            مدرّبون مؤهَّلون لدوراتٍ ليس لهم فيها شعبةٌ يعبّئون محتواها — ويرونها في «دوراتي» ويقبلونها
             بأنفسهم، فهذه لمن تريد أن تبادره أنت. ضع علامةً على من تريد؛
             فيُنشأ لكلٍّ منهم شعبةٌ <b>مسوّدةٌ لا تظهر للناس ولا يُسجَّل فيها</b>، ويصله عرضُها
             يقبله أو يعتذر عنه. ومن قبِل وجدها في «شعبي» وعبّأ فيها. وفتحُ الشعبة للتسجيل قرارٌ

diff --git a/src/tests/trainer/edit-in-cohorts.test.ts b/src/tests/trainer/edit-in-cohorts.test.ts
@@ -32,7 +32,7 @@ const SERVICE = code('server/services/trainer-materials.service.ts')
 
 describe('① «مؤهّلاتي» تدلّ على «شعبي»', () => {
   it('السطرُ في فرع القائمة، ومعه رابطُ «شعبي»', () => {
-    const list = QUALS.slice(QUALS.indexOf('ariaLabel="حالُ مؤهّلاتي"') - 1200, QUALS.indexOf('ariaLabel="حالُ مؤهّلاتي"'))
+    const list = QUALS.slice(QUALS.indexOf('ariaLabel="حالُ دوراتي"') - 1200, QUALS.indexOf('ariaLabel="حالُ دوراتي"'))
     expect(list, 'لا يقول أين يُعبَّأ محتوى الدورة').toMatch(/تعبّئه في «شعبي»/)
     expect(list, 'لا رابطَ إلى «شعبي»').toMatch(/<Button as=\{Link\} to="\/trainer\/board"/)
   })

diff --git a/server/services/trainer-prep.service.ts b/server/services/trainer-prep.service.ts
@@ -221,7 +221,7 @@ export class TrainerPrepService {
       const open = await this.prisma.trainerAssignmentOffer.count({
         where: { profileId: profile.id, courseId, status: 'offered' },
       })
-      if (open > 0) throw new AuthError('open_offer', 'لهذه الدورة عرضٌ ينتظر جوابَك في «مؤهّلاتي» — أجِبه بدلَ أن تُنشئ شعبةً ثانية', 409)
+      if (open > 0) throw new AuthError('open_offer', 'لهذه الدورة عرضٌ ينتظر جوابَك في «دوراتي» — أجِبه بدلَ أن تُنشئ شعبةً ثانية', 409)
       const live = await this.prisma.cohortTrainer.count({
         where: { profileId: profile.id, cohort: { courseId, status: { not: 'cancelled' } } },
       })

diff --git a/src/tests/trainer/guide-not-portal.test.ts b/src/tests/trainer/guide-not-portal.test.ts
@@ -66,7 +66,7 @@ describe('④ الفهرسُ أجزاء', () => {
   })
 
   it('والاسمُ في الفهرس قصير — ما قبل النقطتين', () => {
-    expect(shortTitle('مؤهّلاتي: عروضُ الدورات وقرارُك فيها')).toBe('مؤهّلاتي')
+    expect(shortTitle('دوراتي: عروضُ الدورات وقرارُك فيها')).toBe('دوراتي')
     for (const s of GUIDE_SECTIONS) expect(shortTitle(s.title).length, s.title).toBeLessThanOrEqual(26)
     /* والفهرسُ يُبنى منذ ٥ أكتوبر ٢٠٢٦ في `data/trainer-guide/toc.ts` لا في الصفحة —
        فيُسأل الفهرسُ المبنيُّ نفسُه عن أسمائه، لا الشيفرةُ عن نصّها */

diff --git a/src/tests/trainer/availability-removed.test.ts b/src/tests/trainer/availability-removed.test.ts
@@ -103,7 +103,7 @@ describe('شاشةُ المؤهّلات — ما بقي منها', () => {
     expect(code('src/App.tsx')).toMatch(/path="\/trainer\/qualifications"/)
     const tab = code('src/pages/trainer/TrainerLayout.tsx').split('\n').find((l) => l.includes('"/trainer/qualifications"'))
     expect(tab, 'لا بندَ للشاشة في قائمة المدرّب').toBeTruthy()
-    expect(tab).toMatch(/label: "مؤهّلاتي"/)
+    expect(tab).toMatch(/label: "دوراتي"/)
   })
 
   /* باقٍ من الحارس الذي انقلب (٨ سبتمبر ٢٠٢٦)، وتبدّل نصُّه (٣٠ سبتمبر

diff --git a/scripts/trainer-guide/capture.ts b/scripts/trainer-guide/capture.ts
@@ -585,7 +585,7 @@ const ACTIVE: Shot[] = [
       await shoot(e, {
         name: 'qualifications', clip: pageBody(p), clipPad: 6, maxHeight: 1550,
         marks: [
-          { target: p.getByRole('tablist', { name: 'حالُ مؤهّلاتي' }), n: 1, pad: 4 },
+          { target: p.getByRole('tablist', { name: 'حالُ دوراتي' }), n: 1, pad: 4 },
           { target: card.getByText(/متاحةٌ لك — قرّر/).first(), n: 2, pad: 4 },
           { target: btn(card, 'أوافق على تقديمها'), n: 3, pad: 4 },
           { target: btn(card, 'أعتذر عنها'), n: 4, pad: 4 },
